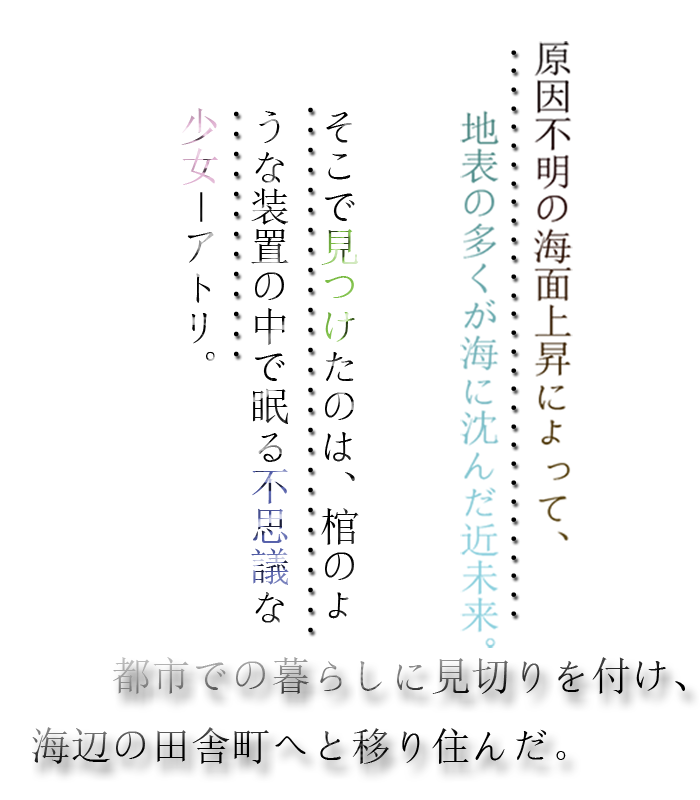
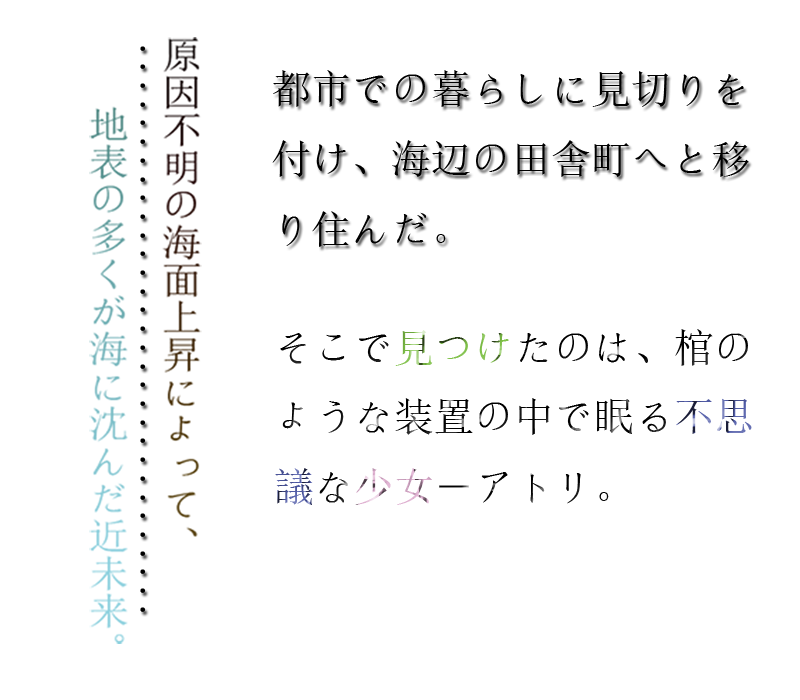
111
111

diff --git a/blog.html b/blog.html
@@ -246,7 +246,7 @@
                 <div id="story" v-show="false" style="width: 650px;height: 100px;margin: auto;position: relative;">
                     <img src="./background/story.png" alt="" style="position: absolute;left: 0px;top: -50px;">
                     <img src="/background/story-text.png" alt=""
-                        style="width: 500px;height: 600px;position: absolute;top: 0px;right: -50px;">
+                        style="width: 600px;height: 525px;position: absolute;top: 50px;right: -100px;">
                 </div>
 
             </div>
